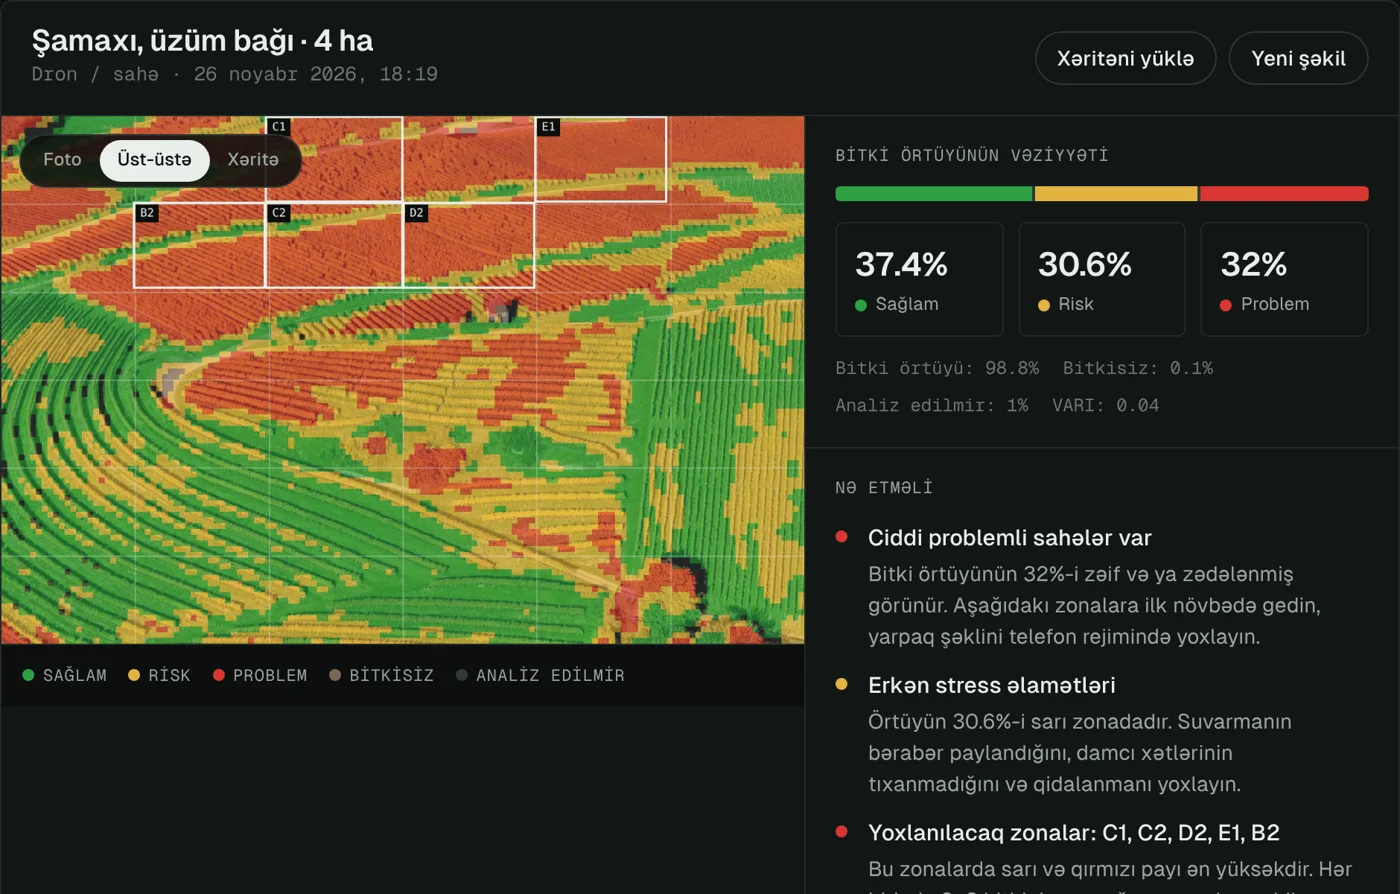
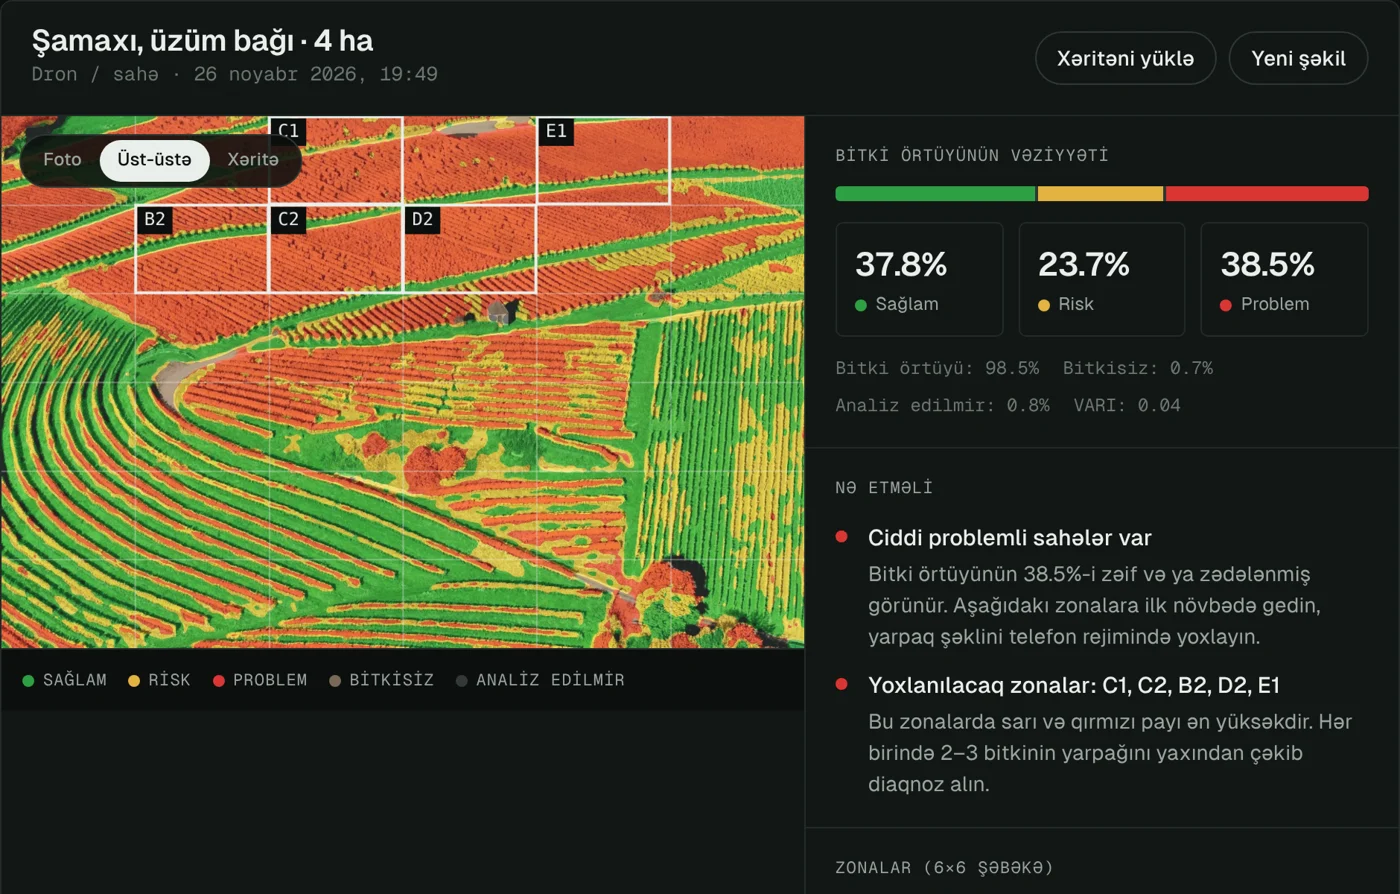
Per-pixel health map instead of blocks; guard non top-down photos
- fieldmap: analyse every pixel (ExG vegetation, VARI health weighted by
  foliage strength, small separable blur), shade colours with photo
  brightness; no more blocky map
- advice: warn when the photo is not top-down or has no vegetation
- refresh app screenshot, bump service worker cache

Claude-Session: https://claude.ai/code/session_01NMfLipckw1MHq17ATdZjiP

diff --git a/web/assets/js/fieldmap.js b/web/assets/js/fieldmap.js
@@ -1,8 +1,15 @@
 // VisionX field health map — works on ordinary RGB photos (drone or phone, top-down).
-// Per pixel: vegetation via normalised Excess Green (ExG), health via VARI
-// (Visible Atmospherically Resistant Index). Pixels are aggregated into blocks,
-// smoothed 3x3, then each block gets one class:
-//   0 healthy (green) · 1 risk (yellow) · 2 problem (red) · 3 bare soil · 4 not analysed (water, shadow, roads, roofs)
+//
+// Every pixel is analysed (no blocks):
+//   1. Masks: water, deep shadow and grey surfaces (roads, roofs) are "not analysed".
+//   2. Vegetation: normalised Excess Green, ExG = (2G − R − B) / (R + G + B).
+//      Green and yellowing leaves score high, brown soil scores ~0.
+//   3. Health of vegetation: VARI = (G − R) / (G + R − B). Dense green canopy is
+//      high; yellowing, browning or wilting leaves drop towards 0 and below.
+//   4. A small blur (a few pixels) turns single-pixel noise into a local reading,
+//      then each pixel gets a class:
+//        0 healthy (green) · 1 risk (yellow) · 2 problem (red) · 3 bare soil · 4 not analysed
+//   5. The map is shaded with the photo's own brightness, so rows and canopy stay visible.
 
 export const CLASS = { OK: 0, RISK: 1, BAD: 2, SOIL: 3, VOID: 4 };
 export const PALETTE = [
@@ -14,12 +21,13 @@ export const PALETTE = [
 ];
 
 const DEFAULTS = {
-  maxSide: 960,      // analysis resolution
-  blocksAcross: 110, // block grid density along the longest side
-  tHealthy: 0.07,    // VARI >= -> healthy
-  tRisk: -0.01,      // VARI >= -> risk, else problem
-  minVegFrac: 0.18,  // block needs this share of vegetation pixels to be graded
-  zoneGrid: 6,       // zones for the report (6 x 6, labelled A1..F6)
+  maxSide: 1400,     // analysis resolution (longest side, px)
+  radius: null,      // blur radius in px; default ≈ longest side / 350
+  tHealthy: 0.07,    // local VARI >= → healthy
+  tRisk: -0.01,      // local VARI >= → risk, else problem
+  minVegFrac: 0.2,   // local (weighted) vegetation share needed to grade a pixel
+  shade: true,       // modulate colours with photo brightness
+  zoneGrid: 6,       // zones for the report (6 × 6, labelled A1..F6)
 };
 
 export function imageToCanvas(img, maxSide) {
@@ -34,116 +42,115 @@ export function imageToCanvas(img, maxSide) {
   return c;
 }
 
+// Separable box blur with running sums, applied twice (close to a Gaussian).
+function blur(src, W, H, r) {
+  const tmp = new Float32Array(W * H), out = new Float32Array(W * H);
+  const pass = (a, b) => {
+    const n = 2 * r + 1;
+    for (let y = 0; y < H; y++) {           // horizontal
+      const o = y * W; let acc = 0;
+      for (let x = -r; x <= r; x++) acc += a[o + Math.min(W - 1, Math.max(0, x))];
+      for (let x = 0; x < W; x++) {
+        tmp[o + x] = acc / n;
+        acc += a[o + Math.min(W - 1, x + r + 1)] - a[o + Math.max(0, x - r)];
+      }
+    }
+    for (let x = 0; x < W; x++) {           // vertical
+      let acc = 0;
+      for (let y = -r; y <= r; y++) acc += tmp[Math.min(H - 1, Math.max(0, y)) * W + x];
+      for (let y = 0; y < H; y++) {
+        b[y * W + x] = acc / n;
+        acc += tmp[Math.min(H - 1, y + r + 1) * W + x] - tmp[Math.max(0, y - r) * W + x];
+      }
+    }
+  };
+  pass(src, out);
+  pass(out, out);
+  return out;
+}
+
 export function analyzeField(img, opts = {}) {
   const o = { ...DEFAULTS, ...opts };
   const src = imageToCanvas(img, o.maxSide);
-  const W = src.width, H = src.height;
+  const W = src.width, H = src.height, N = W * H;
   const px = src.getContext('2d').getImageData(0, 0, W, H).data;
-  const bs = Math.max(4, Math.round(Math.max(W, H) / o.blocksAcross));
-  const wb = Math.floor(W / bs), hb = Math.floor(H / bs);
-  const nb = wb * hb;
-  const vegCnt = new Float32Array(nb), varSum = new Float32Array(nb), invCnt = new Float32Array(nb);
+  const r = o.radius ?? Math.max(1, Math.round(Math.max(W, H) / 350));
 
-  for (let y = 0; y < hb * bs; y++) {
-    const by = (y / bs) | 0;
-    for (let x = 0; x < wb * bs; x++) {
-      const i = (y * W + x) * 4;
-      const r = px[i] / 255, g = px[i + 1] / 255, b = px[i + 2] / 255;
-      const s = r + g + b + 1e-6;
-      const mx = Math.max(r, g, b), mn = Math.min(r, g, b);
-      const water = (b >= 0.88 * g && g >= 0.95 * r && mx - mn < 0.25) || (b > g && b > r);
-      const dark = s < 0.2;
-      const grey = mx - mn < 0.06 && mx > 0.45;
-      const k = by * wb + ((x / bs) | 0);
-      if (water || dark || grey) { invCnt[k]++; continue; }
-      const exg = (2 * g - r - b) / s;
-      if (exg > 0.06) {
-        let vari = (g - r) / Math.max(g + r - b, 0.05);
-        vari = vari < -1 ? -1 : vari > 1 ? 1 : vari;
-        vegCnt[k]++; varSum[k] += vari;
-      }
+  const inv = new Float32Array(N), veg = new Float32Array(N), vv = new Float32Array(N), lum = new Float32Array(N);
+  for (let i = 0, p = 0; i < N; i++, p += 4) {
+    const R = px[p] / 255, G = px[p + 1] / 255, B = px[p + 2] / 255;
+    const s = R + G + B + 1e-6, mx = Math.max(R, G, B), mn = Math.min(R, G, B);
+    lum[i] = 0.299 * R + 0.587 * G + 0.114 * B;
+    const water = (B >= 0.88 * G && G >= 0.95 * R && mx - mn < 0.25) || (B > G && B > R);
+    if (water || s < 0.2 || (mx - mn < 0.06 && mx > 0.45)) { inv[i] = 1; continue; }
+    const exg = (2 * G - R - B) / s;
+    if (exg > 0.06) {
+      let v = (G - R) / Math.max(G + R - B, 0.05);
+      v = v < -1 ? -1 : v > 1 ? 1 : v;
+      // weight by how clearly the pixel is foliage: soil/leaf edge pixels count little
+      const w = Math.min(1, (exg - 0.06) / 0.12);
+      veg[i] = w; vv[i] = v * w;
     }
   }
+  const bInv = blur(inv, W, H, r), bVeg = blur(veg, W, H, r), bVV = blur(vv, W, H, r);
 
-  // 3x3 smoothing of block sums
-  const area = bs * bs;
-  const sm = (arr) => {
-    const out = new Float32Array(nb);
-    for (let y = 0; y < hb; y++) for (let x = 0; x < wb; x++) {
-      let acc = 0, n = 0;
-      for (let dy = -1; dy <= 1; dy++) for (let dx = -1; dx <= 1; dx++) {
-        const yy = y + dy, xx = x + dx;
-        if (yy < 0 || xx < 0 || yy >= hb || xx >= wb) continue;
-        const w = dx === 0 && dy === 0 ? 2 : 1;
-        acc += arr[yy * wb + xx] * w; n += w;
-      }
-      out[y * wb + x] = acc / n;
+  const cls = new Uint8Array(N);
+  const counts = [0, 0, 0, 0, 0];
+  let sumV = 0;
+  for (let i = 0; i < N; i++) {
+    let c;
+    if (bInv[i] > 0.5) c = 4;
+    else if (bVeg[i] < o.minVegFrac) c = 3;
+    else {
+      const v = bVV[i] / bVeg[i];
+      c = v >= o.tHealthy ? 0 : v >= o.tRisk ? 1 : 2;
+      sumV += v;
     }
-    return out;
-  };
-  const vegS = sm(vegCnt), varS = sm(varSum);
-
-  const cls = new Uint8Array(nb);
-  const blockVari = new Float32Array(nb);
-  for (let k = 0; k < nb; k++) {
-    if (invCnt[k] / area > 0.5) { cls[k] = 4; continue; }
-    const vf = vegS[k] / area;
-    if (vf < o.minVegFrac) { cls[k] = 3; continue; }
-    const v = varS[k] / Math.max(vegS[k], 1e-6);
-    blockVari[k] = v;
-    cls[k] = v >= o.tHealthy ? 0 : v >= o.tRisk ? 1 : 2;
+    cls[i] = c; counts[c]++;
   }
 
-  // Map canvas at the analysis resolution
+  // Render
   const map = document.createElement('canvas');
-  map.width = wb * bs; map.height = hb * bs;
-  const small = document.createElement('canvas');
-  small.width = wb; small.height = hb;
-  const sctx = small.getContext('2d');
-  const id = sctx.createImageData(wb, hb);
-  for (let k = 0; k < nb; k++) {
-    const p = PALETTE[cls[k]];
-    id.data[k * 4] = p[0]; id.data[k * 4 + 1] = p[1]; id.data[k * 4 + 2] = p[2]; id.data[k * 4 + 3] = 255;
-  }
-  sctx.putImageData(id, 0, 0);
+  map.width = W; map.height = H;
   const mctx = map.getContext('2d');
-  mctx.imageSmoothingEnabled = false;
-  mctx.drawImage(small, 0, 0, map.width, map.height);
+  const id = mctx.createImageData(W, H);
+  const d = id.data;
+  for (let i = 0, p = 0; i < N; i++, p += 4) {
+    const col = PALETTE[cls[i]];
+    const k = o.shade && cls[i] !== 4 ? 0.72 + 0.56 * Math.min(1, lum[i] * 1.6) : 1;
+    d[p] = Math.min(255, col[0] * k); d[p + 1] = Math.min(255, col[1] * k); d[p + 2] = Math.min(255, col[2] * k); d[p + 3] = 255;
+  }
+  mctx.putImageData(id, 0, 0);
 
   // Stats
-  const counts = [0, 0, 0, 0, 0];
-  for (let k = 0; k < nb; k++) counts[cls[k]]++;
-  const vegBlocks = counts[0] + counts[1] + counts[2];
-  const pct = (n, d) => (d ? Math.round((1000 * n) / d) / 10 : 0);
-  let meanVari = 0;
-  for (let k = 0; k < nb; k++) if (cls[k] < 3) meanVari += blockVari[k];
-  meanVari = vegBlocks ? meanVari / vegBlocks : 0;
+  const vegPx = counts[0] + counts[1] + counts[2];
+  const pct = (n, dd) => (dd ? Math.round((1000 * n) / dd) / 10 : 0);
 
   // Zones (grid A1..), ranked by problem share
   const G = o.zoneGrid, zones = [];
   for (let zy = 0; zy < G; zy++) for (let zx = 0; zx < G; zx++) {
-    const x0 = Math.floor((zx * wb) / G), x1 = Math.floor(((zx + 1) * wb) / G);
-    const y0 = Math.floor((zy * hb) / G), y1 = Math.floor(((zy + 1) * hb) / G);
+    const x0 = Math.floor((zx * W) / G), x1 = Math.floor(((zx + 1) * W) / G);
+    const y0 = Math.floor((zy * H) / G), y1 = Math.floor(((zy + 1) * H) / G);
     const c = [0, 0, 0, 0, 0];
-    for (let y = y0; y < y1; y++) for (let x = x0; x < x1; x++) c[cls[y * wb + x]]++;
-    const veg = c[0] + c[1] + c[2];
+    for (let y = y0; y < y1; y++) { const row = y * W; for (let x = x0; x < x1; x++) c[cls[row + x]]++; }
+    const v = c[0] + c[1] + c[2], area = (x1 - x0) * (y1 - y0);
     zones.push({
       id: String.fromCharCode(65 + zx) + (zy + 1),
-      x0: x0 / wb, x1: x1 / wb, y0: y0 / hb, y1: y1 / hb,
-      veg, ok: pct(c[0], veg), risk: pct(c[1], veg), bad: pct(c[2], veg),
-      soil: pct(c[3], Math.max(1, (x1 - x0) * (y1 - y0))),
-      score: veg ? (c[2] * 1 + c[1] * 0.4) / veg : 0,
+      x0: x0 / W, x1: x1 / W, y0: y0 / H, y1: y1 / H,
+      veg: Math.round((100 * v) / Math.max(1, area)), // % of the zone covered by vegetation
+      ok: pct(c[0], v), risk: pct(c[1], v), bad: pct(c[2], v), soil: pct(c[3], area),
+      score: v ? (c[2] + c[1] * 0.4) / v : 0,
     });
   }
-  const hot = zones.filter((z) => z.veg >= 4 && (z.bad >= 25 || z.risk + z.bad >= 50))
+  const hot = zones.filter((z) => z.veg >= 10 && (z.bad >= 25 || z.risk + z.bad >= 50))
     .sort((a, b) => b.score - a.score).slice(0, 5);
 
   return {
     width: W, height: H, map, photo: src,
     stats: {
-      ok: pct(counts[0], vegBlocks), risk: pct(counts[1], vegBlocks), bad: pct(counts[2], vegBlocks),
-      soil: pct(counts[3], nb), void: pct(counts[4], nb), vegCover: pct(vegBlocks, nb),
-      index: Math.round(meanVari * 100) / 100,
+      ok: pct(counts[0], vegPx), risk: pct(counts[1], vegPx), bad: pct(counts[2], vegPx),
+      soil: pct(counts[3], N), void: pct(counts[4], N), vegCover: pct(vegPx, N),
+      index: vegPx ? Math.round((sumV / vegPx) * 100) / 100 : 0,
     },
     zones, hot, grid: G,
   };

diff --git a/web/app/app.js b/web/app/app.js
@@ -130,11 +130,11 @@ async function run(img, source) {
     if (state.mode === 'field') {
       showLoading('Sağlamlıq xəritəsi hesablanır…');
       await new Promise((r) => setTimeout(r, 30));
-      const res = analyzeField(img, { maxSide: 1400, blocksAcross: 140 });
+      const res = analyzeField(img, { maxSide: 1400 });
       const photo = canvasFrom(img, 1400);
       const rec = {
         id: newId(), date: Date.now(), mode: 'field', name: name || 'Adsız sahə', source,
-        photo: photo.toDataURL('image/jpeg', 0.82), map: res.map.toDataURL('image/png'),
+        photo: photo.toDataURL('image/jpeg', 0.82), map: res.map.toDataURL('image/jpeg', 0.9),
         stats: res.stats, hot: res.hot, zones: res.zones, grid: res.grid,
       };
       await renderField(rec);
@@ -172,7 +172,7 @@ async function renderField(rec) {
   const [photo, map] = await Promise.all([loadImage(rec.photo), loadImage(rec.map)]);
   const s = rec.stats;
   const advice = fieldAdvice(s, rec.hot);
-  const ranked = [...rec.zones].filter((z) => z.veg >= 4).sort((a, b) => b.score - a.score).slice(0, 6);
+  const ranked = [...rec.zones].filter((z) => z.veg >= 10).sort((a, b) => b.score - a.score).slice(0, 6);
   const r = $('[data-result]');
   r.hidden = false; $('[data-empty]').hidden = true;
   r.innerHTML = `
@@ -228,7 +228,7 @@ async function renderField(rec) {
     ctx.imageSmoothingEnabled = true;
     if (layer !== 'map') ctx.drawImage(photo, 0, 0, canvas.width, canvas.height);
     if (layer !== 'photo') {
-      ctx.imageSmoothingEnabled = false;
+      ctx.imageSmoothingEnabled = true;
       ctx.globalAlpha = layer === 'overlay' ? 0.62 : 1;
       ctx.drawImage(map, 0, 0, canvas.width, canvas.height);
       ctx.globalAlpha = 1;

diff --git a/web/assets/css/site.css b/web/assets/css/site.css
@@ -36,7 +36,7 @@
 .compare{position:relative;margin:0;border-radius:var(--radius);overflow:hidden;border:1px solid var(--line-2);background:var(--surface);aspect-ratio:1440/954;touch-action:pan-y;user-select:none;-webkit-user-select:none}
 .compare__photo,.compare__map canvas{position:absolute;inset:0;width:100%;height:100%;object-fit:cover}
 .compare__map{position:absolute;inset:0;clip-path:inset(0 0 0 var(--pos,50%))}
-.compare__map canvas{image-rendering:pixelated}
+.compare__map canvas{image-rendering:auto}
 .compare__label{position:absolute;top:12px;z-index:3;padding:5px 9px;border-radius:4px;background:rgba(12,15,14,.86);font-family:var(--mono);font-size:11px;letter-spacing:.07em;text-transform:uppercase;color:var(--text);pointer-events:none}
 .compare__label--l{left:12px}.compare__label--r{right:12px}
 .compare__handle{position:absolute;top:0;bottom:0;left:var(--pos,50%);width:2px;margin-left:-1px;background:var(--text);z-index:2;pointer-events:none}
@@ -90,7 +90,7 @@
 .step__media{margin:0;position:relative;border-radius:var(--radius);overflow:hidden;border:1px solid var(--line-2);background:var(--surface)}
 .step__media img{width:100%;height:auto}
 .step__media--map{aspect-ratio:1280/1000}
-.step__media--map canvas{width:100%;height:100%;object-fit:cover;image-rendering:pixelated}
+.step__media--map canvas{width:100%;height:100%;object-fit:cover;image-rendering:auto}
 .step__media--shot{background:var(--surface-2)}
 
 /* MODES */

diff --git a/web/app/knowledge.js b/web/app/knowledge.js
@@ -182,6 +182,13 @@ export const GENERAL_NOTE = 'Bu, ilkin AI qiymətləndirməsidir. Kimyəvi prepa
 // Field (drone) advice by share of the map
 export function fieldAdvice(stats, hot) {
   const out = [];
+  // Guard: the method needs a top-down view of a field
+  if (stats.vegCover < 5) {
+    return [{ s: 1, t: 'Şəkildə bitki örtüyü demək olar ki, yoxdur', d: 'Bu şəkildən sahənin vəziyyətini qiymətləndirmək olmur. Şəkli sahənin üstündən, yuxarıdan çəkin. Sahə yeni əkilibsə, xəritə cücərtilər böyüdükcə məlumatlı olacaq. Tək yarpağı yoxlamaq üçün "Telefon / yarpaq" rejimini seçin.' }];
+  }
+  if (stats.void >= 35) {
+    out.push({ s: 1, t: 'Şəkil yuxarıdan çəkilməyib', d: `Şəklin ${stats.void}%-i səma, su, kölgə və ya yoldur. Yandan çəkilmiş şəkildə rənglər etibarlı deyil. Ən dəqiq nəticə üçün dronla, sahənin düz üstündən çəkin.` });
+  }
   if (stats.vegCover < 15) {
     out.push({ s: 1, t: 'Şəkildə bitki örtüyü azdır', d: 'Şəkil sahənin üstündən, yuxarıdan çəkilməlidir. Sahə yeni əkilibsə, xəritə cücərtilər böyüdükcə daha informativ olacaq.' });
   }

diff --git a/web/assets/js/site.js b/web/assets/js/site.js
@@ -47,7 +47,7 @@ async function initCompare(el) {
   const canvas = $('canvas', el);
   try {
     const img = await loadImage(el.dataset.src);
-    const res = analyzeField(img, { maxSide: 1200, blocksAcross: 170 });
+    const res = analyzeField(img, { maxSide: 1440 });
     paint(canvas, res.map);
   } catch (e) { console.error(e); }
   el.classList.remove('is-loading');
@@ -81,7 +81,7 @@ $$('[data-livemap]').forEach((el) => {
     io.disconnect();
     try {
       const img = await loadImage(el.dataset.src);
-      const res = analyzeField(img, { maxSide: 1000, blocksAcross: 110 });
+      const res = analyzeField(img, { maxSide: 1280 });
       paint($('canvas', el), res.map);
     } catch (e) { console.error(e); }
   }, { rootMargin: '300px' });

diff --git a/web/app/sw.js b/web/app/sw.js
@@ -1,5 +1,5 @@
 // VisionX offline cache: app shell + model are cached after the first visit.
-const CACHE = 'visionx-v1';
+const CACHE = 'visionx-v2';
 const SHELL = [
   './', './index.html', './app.js', './classifier.js', './knowledge.js', './store.js', './manifest.webmanifest',
   '../assets/css/base.css', '../assets/css/app.css', '../assets/js/fieldmap.js', '../assets/img/favicon.svg',
